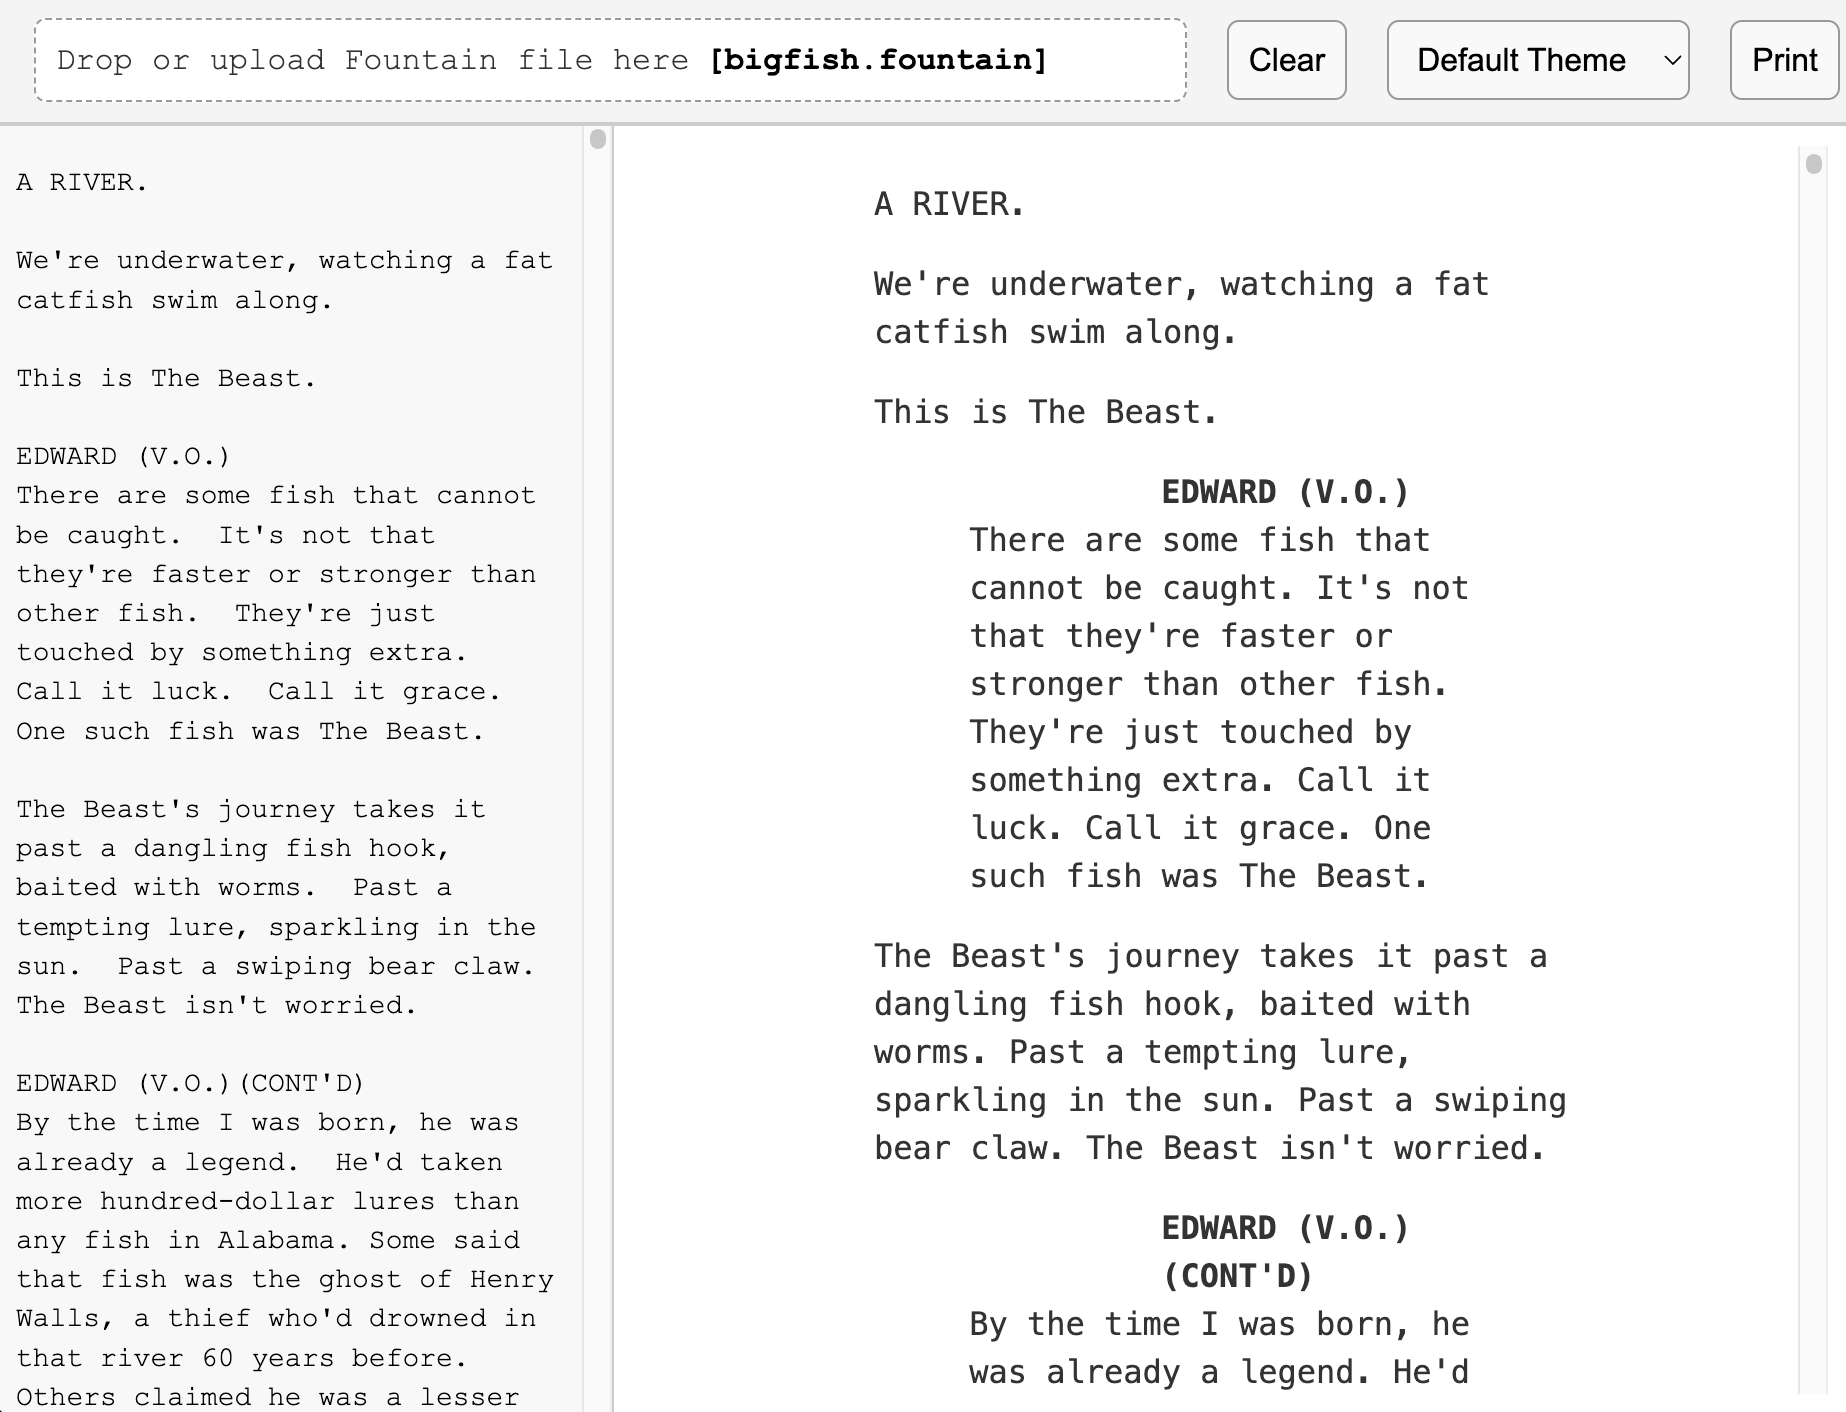
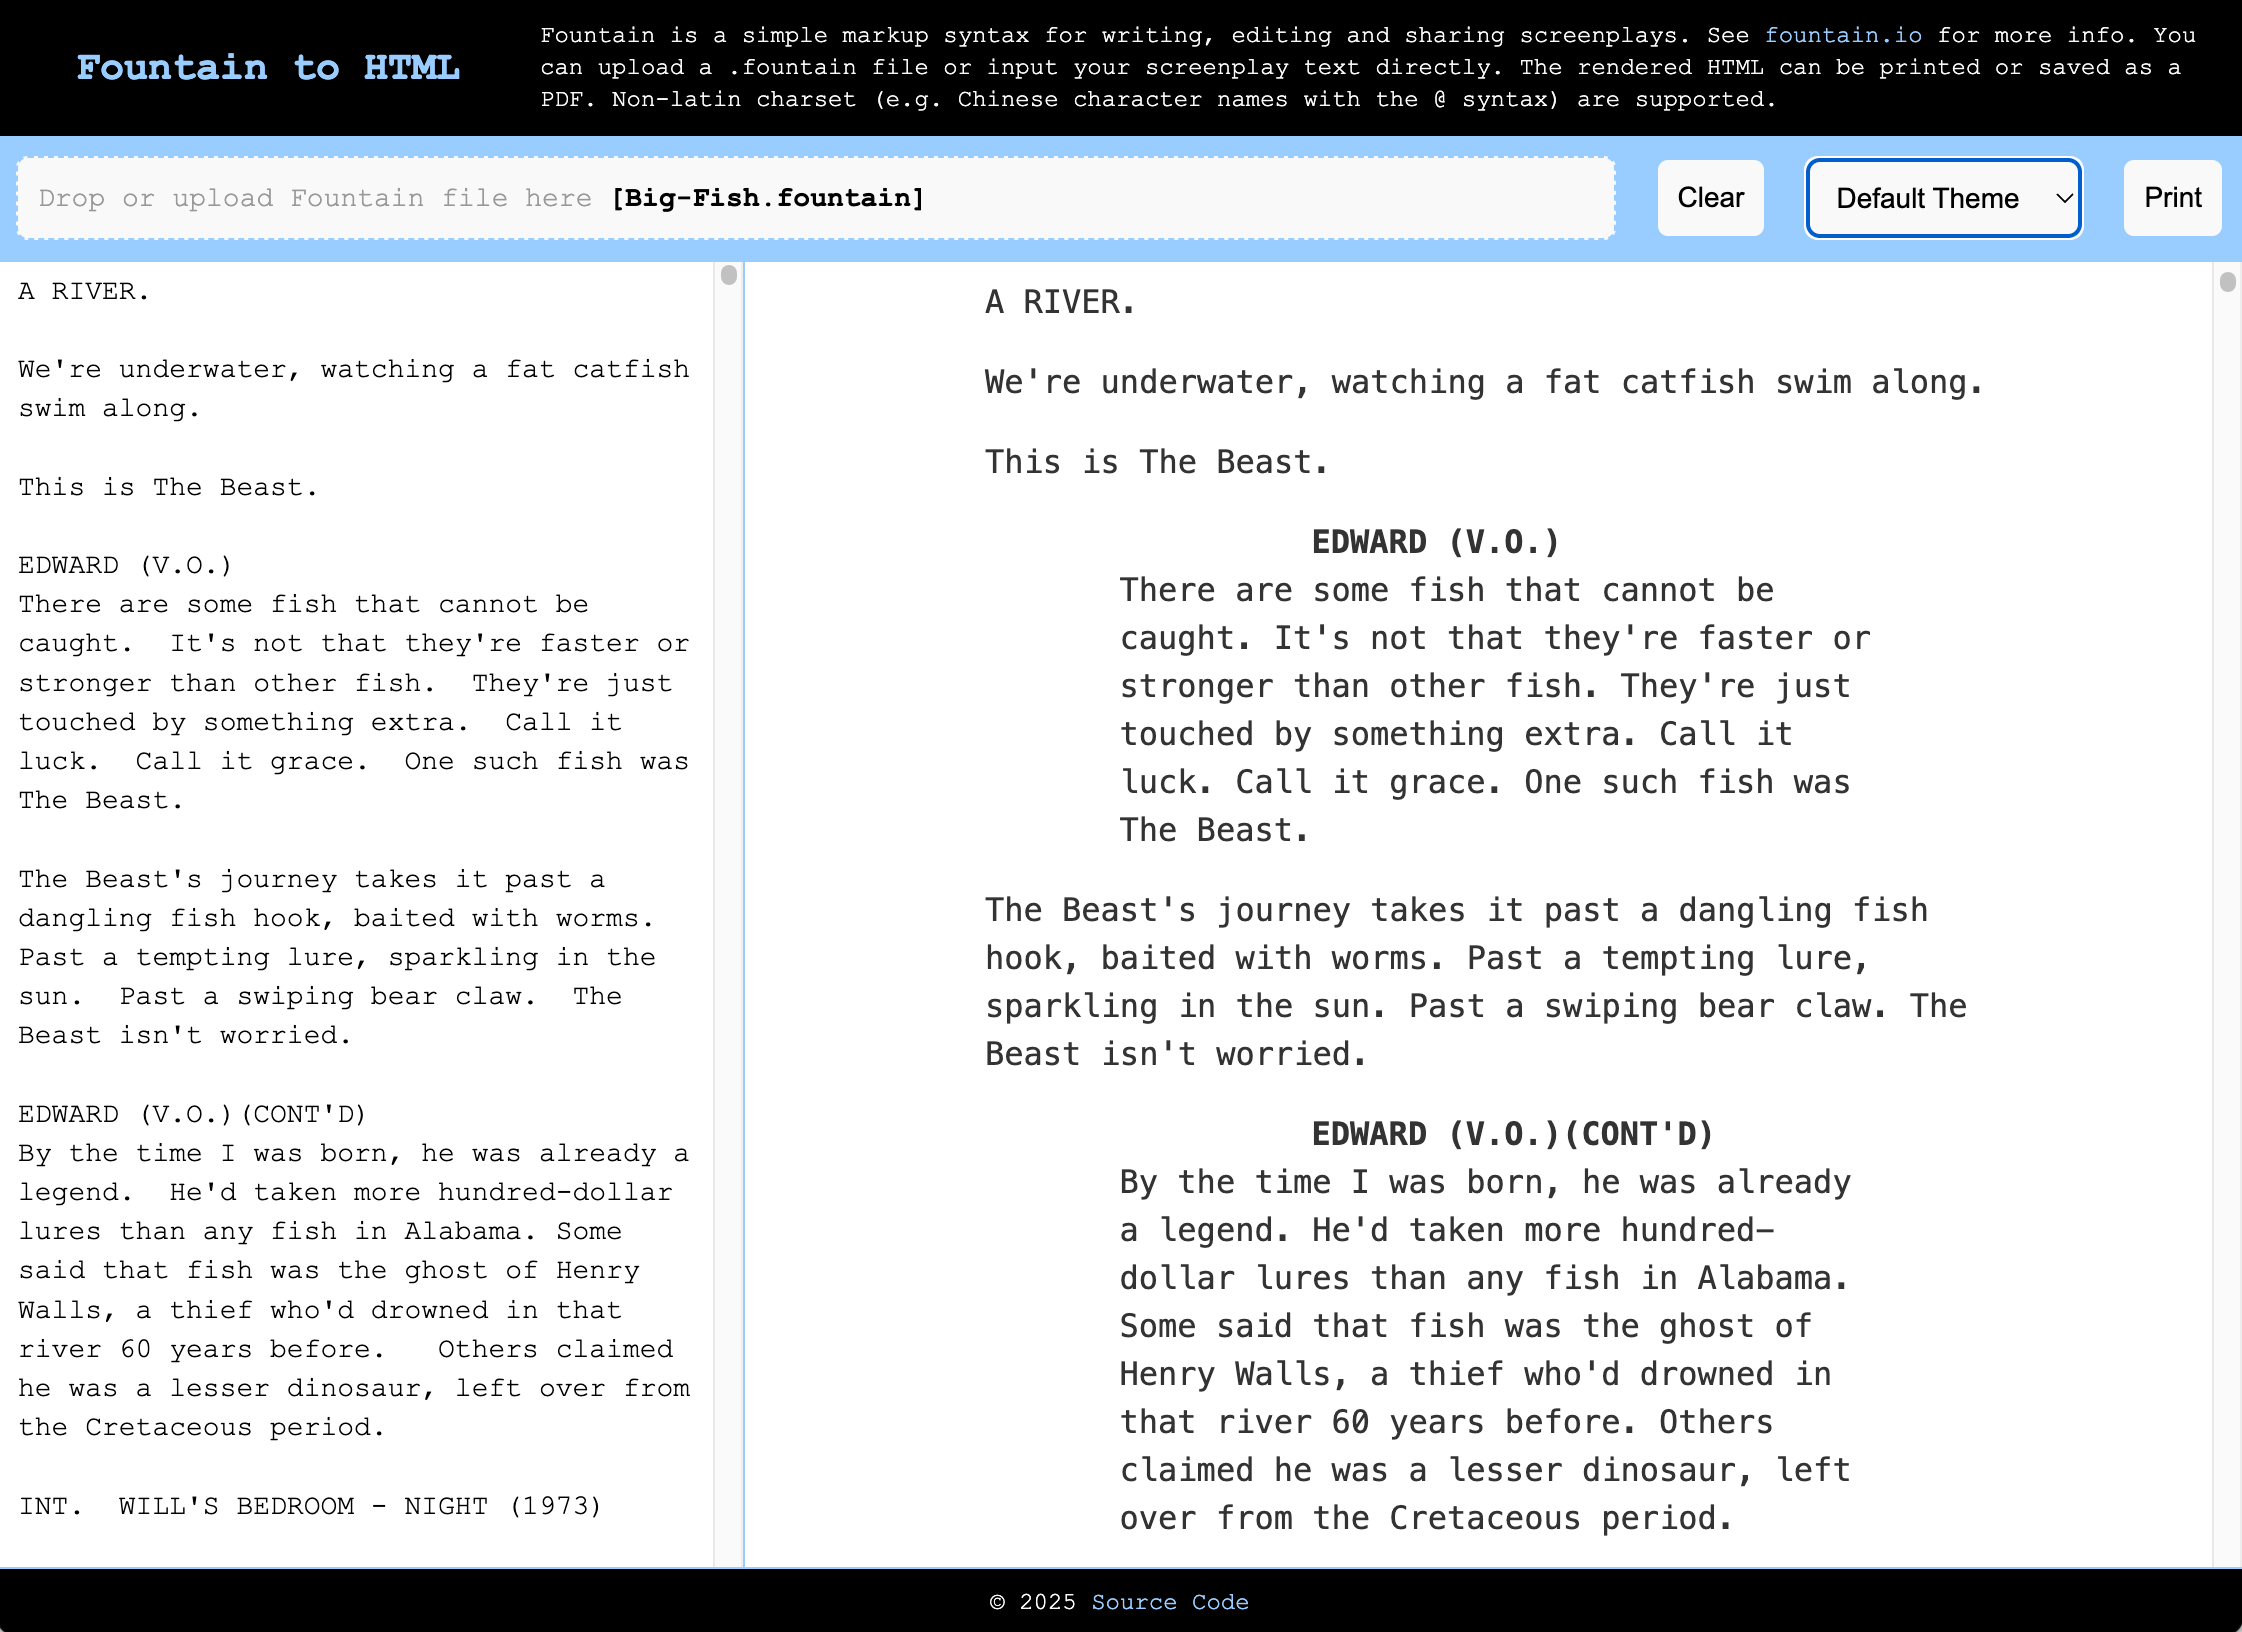
Update copyright and screenshots

Changed region(s): [[0.0, 0.0, 1.0, 1.0], [0.8028, 0.8725, 0.8337, 0.9037], [0.2779, 0.2181, 0.3088, 0.2493]]

diff --git a/index.html b/index.html
@@ -198,7 +198,7 @@
         </div>
     </div>
     <div id="footer-panel">
-        <div>&copy; 2025 <a href="https://github.com/wixette/fountain2html" target="_blank">Source Code</a></div>
+        <div>&copy; 2025 wixette <a href="https://github.com/wixette/fountain2html" target="_blank">Source Code</a></div>
     </div>
 
     <script type="module">
